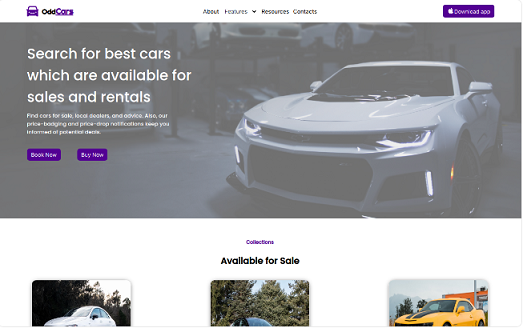
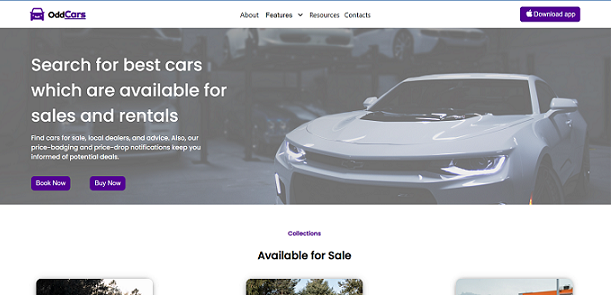
first commit

diff --git a/src/Components/Navbar.js b/src/Components/Navbar.js
@@ -7,6 +7,7 @@ import {
   AiOutlineMenu,
   AiOutlineCloseCircle,
 } from "react-icons/ai";
+import { HashLink as Link } from "react-router-hash-link";
 
 function Navbar() {
   const [isOpen, setisOpen] = useState(false);
@@ -27,53 +28,63 @@ function Navbar() {
 
       <div className="text-white">
         <div className="flex space-x-10 xsm:hidden sm:hidden md:flex">
-          <a href="work" class="text-sm font-mono">
-            WORKS
-          </a>
-          <a href="work" class="text-sm font-mono">
-            RESUME
-          </a>
-          <a href="work" class="text-sm font-mono">
-            CONTACT
-          </a>
+          <Link to={"#About"} class="text-sm font-mono">
+            About
+          </Link>
+          <Link to={"#works"} class="text-sm font-mono">
+            Project
+          </Link>
+          <Link to={"#contact"} class="text-sm font-mono">
+            Contact
+          </Link>
+        </div>
+        <div className="  md:hidden lg:hidden xlg:hidden" onClick={handleNav}>
+          {isOpen ? (
+            <AiOutlineCloseCircle size={"25px"} color="white" />
+          ) : (
+            <AiOutlineMenu size={"25px"} color="white" />
+          )}
         </div>
       </div>
-      <div
-        class="    text-white space-x-20 justify-between
-         md:flex xlg:flex lg:flex sm:hidden xsm:hidden 
-      "
-      >
-        <div className="flex space-x-1 ">
-          <AiFillLinkedin />
-          <AiFillGithub />
-          <AiFillInstagram />
-          <AiFillTwitterCircle />
-        </div>
-      </div>
-      <div className="  md:hidden lg:hidden xlg:hidden" onClick={handleNav}>
-        {isOpen ? (
-          <AiOutlineCloseCircle size={"25px"} color="white" />
-        ) : (
-          <AiOutlineMenu size={"25px"} color="white" />
-        )}
-      </div>
+
       <div
         className={
           isOpen
-            ? " absolute w-[100%] h-[80%] border border-t-white border-t-2 border-r-0 border-l-0 right-0  top-0 mt-14 md:hidden xlg:hidden lg:hidden bg-black ease-linear duration-300ms "
+            ? " absolute w-[100%] h-[60%] border border-t-white border-t-2 border-r-0 border-l-0 right-0  top-0 mt-14 md:hidden xlg:hidden lg:hidden bg-black ease-in-out  duration-100 "
             : "hidden"
         }
       >
-        <div className="pt-10">
-          <ul class="  border-b-2 border-white p-6 text-white text-2xl    font-mono">WORKS</ul>
-          <ul class="  border-b-2 border-white p-6 text-white text-2xl font-mono">RESUME</ul>
-          <ul class=" border-b-2 border-white p-6 text-white text-2xl font-mono">CONTACT</ul>
+        <div className=" text-right pt-10">
+          <Link to="#about">
+            <ul
+              onClick={handleNav}
+              class="   border-b-2 border-white p-7 text-white text-2xl    font-mono"
+            >
+              About
+            </ul>
+          </Link>
+          <Link to="#works">
+            <ul
+              onClick={handleNav}
+              class="  border-b-2 border-white p-7 text-white text-2xl    font-mono"
+            >
+              Project
+            </ul>
+          </Link>
+          <Link to="#contact">
+            <ul
+              onClick={handleNav}
+              class="  border-b-2 border-white p-7 text-white text-2xl    font-mono"
+            >
+              Contact
+            </ul>
+          </Link>
         </div>
-        <div className="flex space-x-3  mx-[35%] pt-7">
-          <AiFillLinkedin size={45} color="white" />
-          <AiFillGithub size={45} color="white" />
-          <AiFillInstagram size={45} color="white" />
-          <AiFillTwitterCircle size={45} color="white" />
+        <div className="flex  justify-end items-end space-x-2 pr-7 pt-7">
+          <AiFillLinkedin size={30} color="white" />
+          <AiFillGithub size={30} color="white" />
+          <AiFillInstagram size={30} color="white" />
+          <AiFillTwitterCircle size={30} color="white" />
         </div>
       </div>
     </div>

diff --git a/src/Components/Footer.js b/src/Components/Footer.js
@@ -1,0 +1,53 @@
+import React from "react";
+import {
+  AiFillGithub,
+  AiFillLinkedin,
+  AiFillTwitterCircle,
+} from "react-icons/ai";
+import { FaRegCopyright } from "react-icons/fa";
+import { Link } from "react-router-dom";
+
+const Footer = () => {
+  return (
+    <div className=" w-full xsm:max-w-7xl bg-black xsm:h-[55vh] sm:h-[50vh] md:h-[33vh] lg:h-[38vh] xsm:px-0 md:px-10  mt-14   text-white">
+      <div className=" xsm:w-[90%] md:w-[90%] md:pt-20 xsm:pt-16  mx-auto xsm:flex xsm:justify-center  xsm:flex-col-reverse lg:pt-10 md:flex md:flex-row md:justify-center md:place-items-center">
+        <div className=" xsm:w-[100%] w-[50%] text-left">
+          <h3 className=" xsm:mt-16 md:mt-0 uppercase text-sans text-xl font-bold">
+            Dimgba David
+          </h3>
+          <p className=" xsm:w-[100%] md:w-[75%] lg:w-[60%] font-light pt-3">
+            Thank you for visiting my portfolio! I'm excited to share with you a
+            glimpse into my journey
+          </p>
+        </div>
+        <div className=" md:w-[50%] xsm:w-[90%] xsm:pt-1 xsm:text-left md:pt-0 md:text-right">
+          <p className="uppercase text-xl text-sans font-bold">Socials</p>
+          <div className="w-full xsm:flex xsm:justify-start md:flex md:justify-end mt-4 space-x-3  ">
+            <Link to="https://www.linkedin.com/in/dimgba-david-a74a3824a">
+              <AiFillLinkedin size={30} color="white" />
+            </Link>
+            <Link to="https://github.com/ODDIFIED">
+              <AiFillGithub size={30} color="white" />
+            </Link>
+            <Link to="https://twitter.com/blackboy0dd">
+              <AiFillTwitterCircle size={30} color="white" />
+            </Link>
+          </div>
+        </div>
+      </div>
+      <>
+        <hr className=" xsm:mt-16 md:mt-16 lg:mt-14 xsm:text-gray-400"></hr>
+      </>
+      <div className=" xsm:mt-3 md:mt-6">
+        <p className="flex justify-center space-x-1 items-center text-xs">
+          <span>
+            <FaRegCopyright />
+          </span>
+          Copyright 2023. Made by <span className="font-bold">ODDIFIED</span>
+        </p>
+      </div>
+    </div>
+  );
+};
+
+export default Footer;

diff --git a/src/Components/Contact.js b/src/Components/Contact.js
@@ -1,0 +1,61 @@
+import React from "react";
+
+const Contact = () => {
+  return (
+    <div
+      className=" w-full xsm:max-w-sm md:max-w-6xl mx-auto mt-28 "
+      id="contact"
+    >
+      <h2 className="uppercase xsm:text-3xl md:text-4xl  font-bold ">
+        Contact
+      </h2>
+      <div>
+        <hr className=" xsm:w-[10%] lg:w-[2%] mx-auto mt-3 h-1 bg-black rounded-md"></hr>
+      </div>
+      <div>
+        <p className=" w-full xsm:w-[90%] mx-auto mt-5 pb-14 font-semibold font-sans">
+          Feel free to Contact me by submitting the form below and I will get
+          back to you as soon as possible
+        </p>
+      </div>
+      <form
+        method="POST"
+        action="https://getform.io/f/01048347-0935-4a87-b401-1e39685aa3cc"
+        className="flex flex-col bg-gray-400 shadow-md md:px-5 lg:px-7  xsm:px-2 mt-5 xsm:w-[85%] sm:w-[95%] md:w-[70%] xsm:h-[92vh] sm:h-[80vh] md:h-[67vh] lg:h-[105vh] mx-auto rounded-lg "
+      >
+        <div className=" mt-10 flex flex-col justify-start items-start px-4">
+          <label className="pb-2 text-white font-semibold">Name</label>
+          <input
+            className="w-full bg-white p-5"
+            type="text"
+            placeholder="Enter your name"
+            name="name"
+          />
+        </div>
+        <div className=" mt-5 flex flex-col justify-start items-start px-4">
+          <label className=" pb-2 text-white font-bold">Email</label>
+          <input
+            className="w-full bg-white p-5"
+            type="text"
+            placeholder="Enter your email"
+            name="email"
+          />
+        </div>
+        <div className=" mt-5 flex flex-col justify-start items-start px-4">
+          <label className=" pb-2 text-white font-bold">Message</label>
+          <textarea
+            className="w-full"
+            rows={"10"}
+            placeholder="  Leave a message"
+          />
+        </div>
+
+        <button className="w-[90%] mx-auto border border-black bg-black text-white py-2 px-4 mt-4">
+          Submit
+        </button>
+      </form>
+    </div>
+  );
+};
+
+export default Contact;

diff --git a/src/Components/Hero.js b/src/Components/Hero.js
@@ -17,7 +17,10 @@ import { Link } from "react-router-dom";
 import imgTwo from "../images/WhatsApp Image 2023-09-17 at 16.25.18.jpeg";
 function Hero() {
   return (
-    <div className="w-full  mx-auto max-w-7xl xsm:mx-w-xl mt-10 px-20 ">
+    <div
+      className="w-full  mx-auto max-w-7xl xsm:mx-w-xl mt-10 px-20 "
+      id="about"
+    >
       <h3 className="font-medium font-serif md:text-3xl xsm:text-xl xsm:mt-2 xsm:mx-auto  xsm:w-[100%] sm:w-[90%] md:w-[50%] lg:text-4xl lg:w-[35%]   ">
         Hi, I'm Dimgba David Front-end Developer Based in Nigeria
       </h3>
@@ -84,14 +87,13 @@ function Hero() {
               alt="myPhoto"
             />
           </div>
-         
         </div>
       </div>
-      <div className="lg:w-[100%]  md:text-center  mt-6 ">
+      <div className="lg:w-[100%]  md:text-center  mt-16 ">
         <h3 className="font-semibold text-sm md:text-center lg:text-center text-gray-500">
           Stacks
         </h3>
-        <div className=" w-full mx-auto lg:flex  lg:justify-center lg:items-center lg:space-x-20 xsm:flex xsm:flex-row md:justify-evenly md:mt-2 ">
+        <div className=" w-full mx-auto lg:flex  lg:justify-center lg:items-center lg:space-x-20 xsm:flex xsm:flex-row md:justify-evenly md:mt-5 ">
           <AiFillHtml5
             className=" xsm:mt-0 lg:mt-2  "
             size={70}

diff --git a/src/Data.js b/src/Data.js
@@ -6,19 +6,40 @@ import imgSpace from "./images/Space landingPage -ss.png";
 export const WebData = [
   {
     id: 0,
+    img: imgCar,
+    desc: "ODDCARS",
     url: "https://www.car-app-nine.vercel.app/",
-    desc: "A showroomn page for car dealers",
     html: "Html",
     css: "css",
     js: "JavaScript",
     tool: "react",
   },
   {
-    id: 0,
+    id: 1,
+    img: imgSpace,
+    desc: "Space Tourism",
     url: "https://space-tourism-nine-xi.vercel.app/",
     html: "Html",
     css: "css",
     js: "JavaScript",
+  },
+  {
+    id: 2,
+    desc: "Flag Location",
+    img: imgFlag,
+    url: "https://flag-app-vert.vercel.app/",
+    html: "Html",
+    css: "css",
+    js: "JavaScript",
     tool: "react",
-  }
+  },
+  {
+    id: 3,
+    desc: "Landing page",
+    img: imgIndozi,
+    url: "https://indizo-file.vercel.app/",
+    html: "Html",
+    css: "css",
+    js: "JavaScript",
+  },
 ];

diff --git a/src/Components/ProjectFolder/Project.js b/src/Components/ProjectFolder/Project.js
@@ -1,0 +1,26 @@
+import React from "react";
+import { WebData } from "../../Data";
+import WebCard from "./WebCard";
+
+function Project() {
+  return (
+    <div className="w-full xsm:max-w-xs  md:max-w-6xl mx-auto mt-40" id="works">
+      <h2 className="uppercase text-4xl  font-bold   ">Projects</h2>
+      <div>
+        <hr className=" xsm:w-[10%] lg:w-[2%] mx-auto mt-3 h-1 bg-black rounded-md"></hr>
+      </div>
+      <p className=" xsm:w-[90%] xsm:mx-auto xsm:text-sm md:text-xl lg:text-xl font-semibold mt-4">
+        Here you will find some of the personal projects I created
+      </p>
+      <div>
+        <div>
+          {WebData.map((item) => {
+            return <WebCard item={item} key={item.id} />;
+          })}
+        </div>
+      </div>
+    </div>
+  );
+}
+
+export default Project;

diff --git a/src/Components/ProjectFolder/WebCard.js b/src/Components/ProjectFolder/WebCard.js
@@ -1,0 +1,25 @@
+import React from "react";
+import { Link } from "react-router-dom";
+
+const WebCard = ({ item }) => {
+  const { url, img, desc, html, css, js, tool } = item;
+  return (
+    <div className=" w-[90%] md:w-[70%]  mt-10  mb-16 mx-auto ease-in-out duration-300">
+      <div className="border border-gray-300  md:w-[100%] lg:w-[70%] lg:mx-auto object-cover  ">
+        <img src={img} alt={desc} />
+      </div>
+      <div>
+        <p className=" mt-3 mb-5 xsm:text-xl font-sans font-semibold">{desc}</p>
+        <Link
+          to={url}
+          className="border border-black rounded-xl hover:bg-black hover:text-white xsm:p-2  "
+        >
+          Visit Website
+        </Link>
+        <div className="mt-5"></div>
+      </div>
+    </div>
+  );
+};
+
+export default WebCard;

diff --git a/src/App.js b/src/App.js
@@ -1,11 +1,17 @@
 import "./App.css";
+import Contact from "./Components/Contact";
+import Footer from "./Components/Footer";
 import Hero from "./Components/Hero";
 import Navbar from "./Components/Navbar";
+import Project from "./Components/ProjectFolder/Project";
 
 function App() {
   return <div className="App">
      <Navbar/>
      <Hero />
+     <Project />
+     <Contact />
+     <Footer />
      </div>;
 }
 

diff --git a/public/index.html b/public/index.html
@@ -2,7 +2,7 @@
 <html lang="en">
   <head>
     <meta charset="utf-8" />
-    <link rel="icon" href="%PUBLIC_URL%/favicon.ico" />
+    <link rel="icon" href="%PUBLIC_URL%/favicon.png" />
     <meta name="viewport" content="width=device-width, initial-scale=1" />
     <meta name="theme-color" content="#000000" />
     <meta
